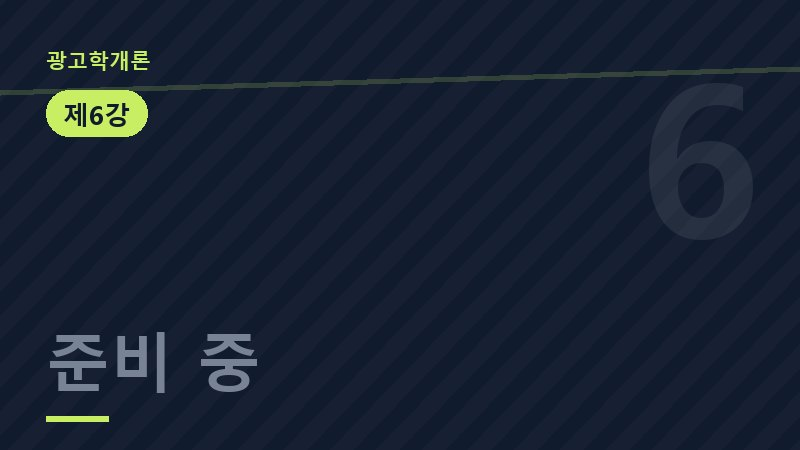
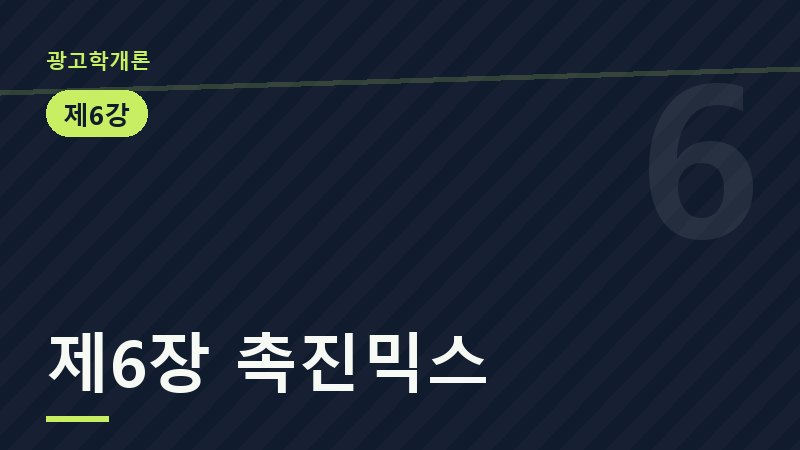
광고학개론 제6장 영상을 걸고 썸네일을 다시 그린다
여섯째 자리가 주소도 제목도 비어 있어 썸네일이 '준비 중' 으로 나왔다.
주소 JceviwdB9j8 과 제목 '제6장 촉진믹스' 를 넣는다. 유튜브에 걸린 제목이
'광고학개론 6장 촉진믹스' 인 것을 확인하고 적었다.

썸네일은 make_thumbs.py 가 course.js 의 제목을 그대로 읽어 그린다. 목록을
두 군데 두면 언젠가 어긋나므로 화면이 쓰는 그 파일만 본다. 열네 장을 다시
그렸고, 제목이 그대로인 장은 같은 그림이 나온다.

Changed region(s): [[0.0625, 0.7156, 0.625, 0.8711]]

diff --git a/courses/03-advertising/course.js b/courses/03-advertising/course.js
@@ -43,7 +43,7 @@ window.COURSE = {
     { v: "q9lNV3iViLo", t: "제3장 광고산업과 마케팅 1" },
     { v: "KlmH6ITMPxk", t: "제4장 광고산업과 마케팅 2" },
     { v: "tn2uC8MmyDQ", t: "제5장 광고인으로 보는 광고의 역사" },
-    { v: "", t: "" },
+    { v: "JceviwdB9j8", t: "제6장 촉진믹스" },
     { v: "", t: "" },
     { v: "", t: "" },
     { v: "", t: "" },
